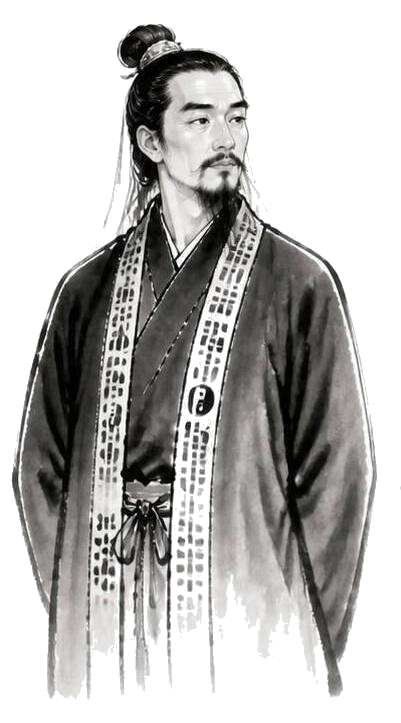
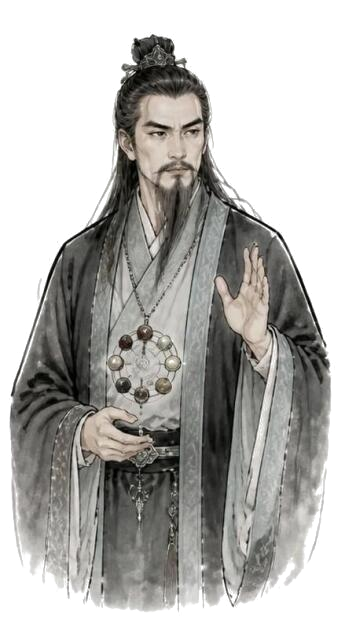
v2: 五行立绘抠图替换 + 气韵维度修复 + /api/bazi + 生辰八字弹窗 + 主理老师轮播

diff --git a/data/_fe_verify.js b/data/_fe_verify.js
@@ -1,12 +1,20 @@
 /* 零依赖前端验证：用最小 DOM 桩真实执行 v2/index.html 主脚本，
-   专测新增的「生辰场景渲染/跳过」与「命盘卡片渲染」与「callAPI 带生辰」是否运行时报错。 */
+   覆盖本轮新增/改写的流程：
+   - 生辰场景（日期+时辰等大、继续按钮初始置灰、跳过文案）
+   - 八字弹窗渲染（baziCard）
+   - 主理老师轮播（s08c2：一位一卡 + 左右箭头 + 星师综合底部按钮）
+   - 无生辰时轮播剔除生肖老师；有生辰则含生肖老师
+   - buildWeights 维度映射（生肖相宜→zodiac）×WEIGHT_BOOST
+   - callAPI：A 线带主理权重；B 线只带生辰、weights=null（不加主理）
+   - 结果页命盘卡片、goHome 复位
+   用法：node data/_fe_verify.js  */
 const fs = require('fs');
 const path = require('path');
 
 const html = fs.readFileSync(path.join(__dirname, '..', 'v2', 'index.html'), 'utf-8');
 const m = html.match(/<script[^>]*>([\s\S]*?)<\/script>/);
 let script = m[1];
-script += '\n;globalThis.__T={renderAsk,renderResult,SCENES,state,callAPI,go,transitionTo,buildWeights,TEACHER_PICK,TEACHER_DIM,DEFAULT_WEIGHTS};';
+script += '\n;globalThis.__T={renderAsk,renderResult,renderScene,renderCarousel,moveCarousel,teacherCarouselList,fetchBazi,_returnTarget,buildWeights,callAPI,go,proceed,goHome,SCENES,state,TEACHER_PICK,TEACHER_DIM,DEFAULT_WEIGHTS,WEIGHT_BOOST,CHAR};';
 
 // ---- 最小 DOM 桩 ----
 const store = {};
@@ -18,7 +26,7 @@ function makeEl(sel) {
       if (p === 'querySelector') return (s) => makeEl(sel + '>' + s);
       if (p === 'querySelectorAll') return () => [];
       if (p === 'classList') return { add() {}, remove() {}, toggle() {}, contains() { return false; } };
-      if (p === 'style') return { setProperty() {}, removeProperty() {}, set() {} , get() { return ''; } };
+      if (p === 'style') return { setProperty() {}, removeProperty() {}, set() {}, get() { return ''; } };
       if (p === 'dataset') return {};
       if (p === 'value') return rec._v || '';
       if (p === 'textContent') return rec._tc || '';
@@ -62,79 +70,114 @@ const run = new Function('document','window','setTimeout','setInterval','clearIn
 const T = run(document, sandbox.window, sandbox.setTimeout, sandbox.setInterval, sandbox.clearInterval, sandbox.clearTimeout, sandbox.requestAnimationFrame, fetchStub, console, JSON, Math, Date, Promise);
 
 let ok = true;
-function check(name, cond) { console.log((cond ? '✔ ' : '�’✘ ') + name); if (!cond) ok = false; }
+function check(name, cond) { console.log((cond ? '✔ ' : '✘ ') + name); if (!cond) ok = false; }
 
 try {
-  // 1) 生辰场景渲染（可选 + 跳过按钮）
+  // ---- 1) 生辰场景：日期+时辰等大、继续按钮初始置灰、跳过文案 ----
   T.state._actorReady = true;
   T.renderAsk(T.SCENES.s08b);
   const birthHtml = store['#scene'] || '';
-  check('生辰场景渲染出日期输入', birthHtml.includes('type="date"'));
-  check('生辰场景渲染出「跳过」按钮', birthHtml.includes('skip'));
+  check('生辰场景渲染出日期输入 type="date"', birthHtml.includes('type="date"'));
+  check('生辰场景用 birthWrap（日期/时辰等大）', birthHtml.includes('birthWrap'));
+  check('生辰场景继续按钮初始 disabled（门控：须填日期）', birthHtml.includes('disabled'));
+  check('生辰场景含跳过按钮「暂不观察生辰八字」', birthHtml.includes('暂不观察生辰八字'));
+  check('时辰下拉含「12 时」默认项', birthHtml.includes('12 时'));
 
-  // 2) 命盘卡片渲染（带生辰的 meta）
+  // ---- 2) 八字弹窗：带 state.bazi 渲染 baziCard ----
+  T.state.bazi = { gz:['甲辰','己巳','甲申','己巳'], day_master:'甲', day_master_wx:'木',
+                   strong:'弱', use_gods:['木','水'], zodiac:'龙' };
+  T.renderAsk(T.SCENES.s08b_result);
+  const baziHtml = store['#scene'] || '';
+  check('八字弹窗渲染出 .baziCard', baziHtml.includes('baziCard'));
+  check('八字弹窗显示八字干支', baziHtml.includes('甲辰') && baziHtml.includes('己巳'));
+  check('八字弹窗显示日主/旺衰/喜用神', baziHtml.includes('甲木') && baziHtml.includes('身弱') && baziHtml.includes('木、水'));
+  check('八字弹窗显示生肖', baziHtml.includes('生肖 龙'));
+
+  // ---- 3) 主理轮播列表：无生辰剔除生肖老师 ----
+  T.state.birth = null;
+  const noBirth = T.teacherCarouselList();
+  check('无生辰：轮播不含生肖老师', !noBirth.some(t=>t.v==='shengxiao'));
+  check('无生辰：轮播含 5 位主理老师', noBirth.length === 5);
+  check('无生辰：仍含星师综合对应键（balance 走按钮，不在此列表）', !noBirth.some(t=>t.v==='balance'));
+
+  // ---- 4) 主理轮播列表：有生辰含生肖老师 ----
+  T.state.birth = { year: 2024, month: 5, day: 20, hour: 12 };
+  const withBirth = T.teacherCarouselList();
+  check('有生辰：轮播含生肖老师', withBirth.some(t=>t.v==='shengxiao'));
+  check('有生辰：轮播含 6 位主理老师', withBirth.length === 6);
+
+  // ---- 5) 轮播场景渲染：一位一卡 + 箭头 + 星师综合底部按钮 ----
+  T.state._actorReady = true;
+  T.renderCarousel(T.SCENES.s08c2);
+  const carHtml = store['#scene'] || '';
+  check('轮播渲染出 .carousel', carHtml.includes('carousel'));
+  check('轮播渲染出 tCard（一位一卡）', carHtml.includes('tCard'));
+  check('轮播渲染出左右箭头 arrL/arrR', carHtml.includes('arrL') && carHtml.includes('arrR'));
+  check('轮播渲染出「选定这位老师」按钮', carHtml.includes('pickBtn'));
+  check('轮播渲染出「星师综合」底部按钮', carHtml.includes('balanceBtn'));
+  check('轮播首屏立绘键为列表第一位（wuxing）', T.state._carouselList[0].v === 'wuxing');
+
+  // ---- 6) moveCarousel 切换不抛错且索引变化 ----
+  const before = T.state._teacherIdx;
+  T.moveCarousel(1);
+  check('moveCarousel(+1) 切到下一老师', T.state._teacherIdx === (before + 1) % T.state._carouselList.length);
+  T.moveCarousel(-1);
+  check('moveCarousel(-1) 切回原位', T.state._teacherIdx === before);
+
+  // ---- 7) buildWeights 维度映射（生肖相宜→zodiac）×WEIGHT_BOOST ----
+  const W = T.DEFAULT_WEIGHTS, BOOST = T.WEIGHT_BOOST;
+  const expect = { wuxing:W.wuxing, yuwen:W.pronounce, ziyuan:W.meaning, shuli:W.stroke, yijing:W.gender, shengxiao:W.zodiac };
+  for (const [k, base] of Object.entries(expect)) {
+    T.state.primaryTeacher = k;
+    const w = T.buildWeights();
+    const dim = T.TEACHER_DIM[k];
+    check('buildWeights('+k+') → '+dim+' ×'+BOOST, w && Math.abs(w[dim] - base*BOOST) < 1e-9 && w[dim] > base);
+  }
+  T.state.primaryTeacher = 'balance';
+  check('buildWeights(balance)=null', T.buildWeights() === null);
+  T.state.primaryTeacher = undefined;
+  check('buildWeights(undefined)=null', T.buildWeights() === null);
+
+  // ---- 8) callAPI：A 线带主理权重 ----
+  T.state.branch = 'A';
+  T.state.primaryTeacher = 'wuxing';
+  T.callAPI();
+  const a1 = lastFetch && lastFetch.body ? JSON.parse(lastFetch.body) : null;
+  check('A 线 callAPI → /api/generate', a1 && lastFetch.url === '/api/generate');
+  check('A 线 callAPI 发送 weights（偏五行 ×'+BOOST+'）', a1 && a1.weights && Math.abs(a1.weights.wuxing - W.wuxing*BOOST) < 1e-9);
+  check('A 线 callAPI 发送 birth', a1 && a1.birth && a1.birth.year === 2024);
+
+  // ---- 9) callAPI：B 线只带生辰、weights=null（不加主理） ----
+  T.state.branch = 'B';
+  T.state.primaryTeacher = undefined;   // B 线不进轮播，primaryTeacher 不设置
+  T.callAPI();
+  const b1 = lastFetch && lastFetch.body ? JSON.parse(lastFetch.body) : null;
+  check('B 线 callAPI → /api/analyze', b1 && lastFetch.url === '/api/analyze');
+  check('B 线 callAPI 发送 birth', b1 && b1.birth && b1.birth.year === 2024);
+  check('B 线 callAPI weights=null（不加主理）', b1 && b1.weights === null);
+
+  // ---- 10) 结果页命盘卡片 ----
+  T.state.branch = 'A';
+  T.state.primaryTeacher = 'wuxing';
   T.state.result = {
-    names: [{ name: '林沐渊', total: 90.9, dims: { wuxing: 96 }, given_chars: ['沐','渊'], given_wx: ['水','水'],
-             explain: [] }],
-    meta: { has_birth: true, gz: ['甲辰','己巳','甲申','己巳'], day_master: '甲', day_master_wx: '木',
-            strong: '弱', use_gods: ['木','水'], zodiac: '龙' }
+    names: [{ name:'林沐渊', total:90.9, dims:{ wuxing:96 }, given_chars:['沐','渊'], given_wx:['水','水'], explain:[] }],
+    meta: { has_birth:true, gz:['甲辰','己巳','甲申','己巳'], day_master:'甲', day_master_wx:'木', strong:'弱', use_gods:['木','水'], zodiac:'龙' }
   };
   T.renderResult();
   const resHtml = store['#result'] || '';
   check('结果页渲染出命盘卡片 .baziCard', resHtml.includes('baziCard'));
-  check('命盘显示八字', resHtml.includes('甲辰') && resHtml.includes('己巳'));
-  check('命盘显示日主/旺衰/喜用神', resHtml.includes('甲木') && resHtml.includes('身弱') && resHtml.includes('木、水'));
+  check('结果页命盘显示八字干支', resHtml.includes('甲辰') && resHtml.includes('己巳'));
 
-  // 3) callAPI 带生辰发送
-  T.state.branch = 'A';
-  T.state.birth = { year: 2024, month: 5, day: 20, hour: 10 };
-  T.callAPI();
-  const sent = lastFetch && lastFetch.body ? JSON.parse(lastFetch.body) : null;
-  check('callAPI 发送 birth 字段', sent && sent.birth && sent.birth.year === 2024);
+  // ---- 11) goHome 复位 bazi / 轮播态 ----
+  T.state.bazi = { gz:['x'] }; T.state._carouselList = []; T.state._teacherIdx = 2;
+  T.goHome();
+  check('goHome 清除 bazi', T.state.bazi === undefined);
+  check('goHome 清除 _carouselList', !('_carouselList' in T.state));
+  check('goHome 清除 _teacherIdx', !('_teacherIdx' in T.state));
 
-  // 4) callAPI 跳过生辰（birth=null）
-  T.state.birth = null;
-  T.callAPI();
-  const sent2 = lastFetch && lastFetch.body ? JSON.parse(lastFetch.body) : null;
-  check('callAPI 跳过时 birth=null', sent2 && sent2.birth === null);
-
-  // 5) 主理老师场景渲染（teacherGrid + 7 位老师）
-  T.state._actorReady = true;   // 模拟立绘登场就绪（真实流程中由 showActor 置位）
-  T.renderAsk(T.SCENES.s08c);
-  const tcHtml = store['#scene'] || '';
-  check('主理老师场景渲染出 teacherGrid', tcHtml.includes('teacherGrid'));
-  ['五行老师','语文老师','字源老师','数理老师','意境老师','八卦老师','星师综合'].forEach(nm=>{
-    check('teacherGrid 含「'+nm+'」', tcHtml.includes(nm));
-  });
-  check('渲染后默认主理=星师综合(balance)', T.state.primaryTeacher==='balance');
-
-  // 6) buildWeights 维度映射×WEIGHT_BOOST 正确
-  const W = T.DEFAULT_WEIGHTS;
-  const expect = {wuxing:W.wuxing*3, yuwen:W.pronounce*3, ziyuan:W.meaning*3, shuli:W.stroke*3, yijing:W.gender*3, bagua:W.zodiac*3};
-  for(const [k,exp] of Object.entries(expect)){
-    T.state.primaryTeacher = k;
-    const w = T.buildWeights();
-    check('buildWeights('+k+') → 维度权重×3', w && Math.abs((w[T.TEACHER_DIM[k]]||0) - exp) < 1e-9 && w[T.TEACHER_DIM[k]] > W[T.TEACHER_DIM[k]]);
-  }
-  T.state.primaryTeacher = 'balance';
-  check('buildWeights(balance)=null', T.buildWeights()===null);
-  T.state.primaryTeacher = undefined;
-  check('buildWeights(undefined)=null', T.buildWeights()===null);
-
-  // 7) callAPI 带主理权重发送
-  T.state.branch = 'A';
-  T.state.primaryTeacher = 'wuxing';
-  T.callAPI();
-  const sent3 = lastFetch && lastFetch.body ? JSON.parse(lastFetch.body) : null;
-  check('callAPI 发送 weights（偏五行）', sent3 && sent3.weights && Math.abs(sent3.weights.wuxing - W.wuxing*3) < 1e-9);
-  T.state.primaryTeacher = 'balance';
-  T.callAPI();
-  const sent4 = lastFetch && lastFetch.body ? JSON.parse(lastFetch.body) : null;
-  check('callAPI 综合时 weights=null', sent4 && sent4.weights === null);
-
-  console.log(ok ? '\n前端新增流程端到端验证：全部通过 ✔' : '\n前端验证存在失败项 ✘');
+  console.log(ok ? '\n前端新增/改写流程端到端验证：全部通过 ✔' : '\n前端验证存在失败项 ✘');
   process.exit(ok ? 0 : 1);
 } catch (e) {
-  console.log('�’✘ 运行时抛出异常：', e && e.stack ? e.stack.split('\n').slice(0,4).join('\n') : e);
+  console.log('✘ 运行时抛出异常：', e && e.stack ? e.stack.split('\n').slice(0,5).join('\n') : e);
   process.exit(1);
 }

diff --git a/v2/index.html b/v2/index.html
@@ -383,7 +383,6 @@ const CHAR = {
   shuli:{name:"数理老师", file:"/characters/char-shuli-1.png"},
   wuxing:{name:"五行老师", file:"/characters/char-wuxing-1.png"},
   yinlv:{name:"音律老师", file:"/characters/char-yinlv-1.png"},
-  xingtai:{name:"形义老师", file:"/characters/char-xingtai-1.png"},
   diangu:{name:"典故老师", file:"/characters/char-diangu-1.png"},
   shushu:{name:"术数老师", file:"/characters/char-shushu-2.png"},
   xingzi:{name:"字形老师", file:"/characters/char-xingzi-1.png"},

diff --git a/data/cutout_wuxing.py b/data/cutout_wuxing.py
@@ -1,0 +1,50 @@
+"""抠图 babynamepic/五行2.jpg → 透明 PNG，保存为 characters/char-wuxing-1.png。
+背景是均匀浅灰(~#f0f0f0)，按像素颜色与背景色距离设 alpha（边缘抗锯齿）。"""
+import os
+from PIL import Image
+
+SRC = os.path.join(os.path.dirname(os.path.abspath(__file__)), "..", "..", "babynamepic", "五行2.jpg")
+SRC = os.path.normpath(SRC)
+DST = os.path.join(os.path.dirname(os.path.abspath(__file__)), "..", "characters", "char-wuxing-1.png")
+DST = os.path.normpath(DST)
+
+im = Image.open(SRC).convert("RGBA")
+W, H = im.size
+print(f"source: {SRC}  size={W}x{H}")
+
+# 取四角像素估计背景色
+corners = [im.getpixel(p) for p in [(0,0), (W-1,0), (0,H-1), (W-1,H-1)]]
+bg_r = sum(c[0] for c in corners) // 4
+bg_g = sum(c[1] for c in corners) // 4
+bg_b = sum(c[2] for c in corners) // 4
+print(f"estimated bg color: rgb({bg_r},{bg_g},{bg_b})")
+
+# 像素距离阈值：远于背景 → 实心；近于背景 → 透明；中间 → 半透明抗锯齿
+THRESH_HARD = 36   # 距离 >= 此值 → 不透明
+THRESH_SOFT = 10   # 距离 <  此值 → 完全透明
+
+px = im.load()
+for y in range(H):
+    for x in range(W):
+        r, g, b, _ = px[x, y]
+        # 欧氏距离（RGB）
+        d2 = (r - bg_r) ** 2 + (g - bg_g) ** 2 + (b - bg_b) ** 2
+        d = (d2 ** 0.5)
+        if d >= THRESH_HARD:
+            a = 255
+        elif d <= THRESH_SOFT:
+            a = 0
+        else:
+            # 线性过渡：THRESH_SOFT → 0，THRESH_HARD → 255
+            a = int(round((d - THRESH_SOFT) * 255 / (THRESH_HARD - THRESH_SOFT)))
+            a = max(0, min(255, a))
+        px[x, y] = (r, g, b, a)
+
+im.save(DST, "PNG", optimize=True)
+size = os.path.getsize(DST)
+print(f"saved: {DST}  bytes={size}  size={W}x{H}")
+
+# 简易自检：透明像素比例
+solid = sum(1 for y in range(H) for x in range(W) if px[x, y][3] > 200)
+total = W * H
+print(f"opaque ratio: {solid}/{total} = {solid/total:.1%}")

diff --git a/api/bazi.py b/api/bazi.py
@@ -1,0 +1,31 @@
+import os, sys
+
+ROOT = os.path.dirname(os.path.dirname(os.path.abspath(__file__)))
+if ROOT not in sys.path:
+    sys.path.insert(0, ROOT)
+
+from fastapi import FastAPI, Request
+from fastapi.responses import JSONResponse
+from core import analyze_birth
+
+# Vercel Serverless Function：POST /api/bazi
+# 给生辰八字弹窗用：根据年/月/日/时计算八字、日主、旺衰、喜用神、生肖、五行计数、缺失五行
+app = FastAPI()
+
+
+@app.post("/api/bazi")
+async def bazi(req: Request):
+    body = await req.json()
+    b = body.get("birth") or {}
+    try:
+        year = int(b.get("year"))
+        month = int(b.get("month"))
+        day = int(b.get("day"))
+        hour = int(b.get("hour", 12))
+    except (TypeError, ValueError):
+        return JSONResponse({"error": "生辰参数缺失或非法"}, status_code=400)
+    try:
+        result = analyze_birth(year, month, day, hour)
+    except Exception as e:
+        return JSONResponse({"error": "八字推算失败: " + str(e)}, status_code=400)
+    return JSONResponse(result)
